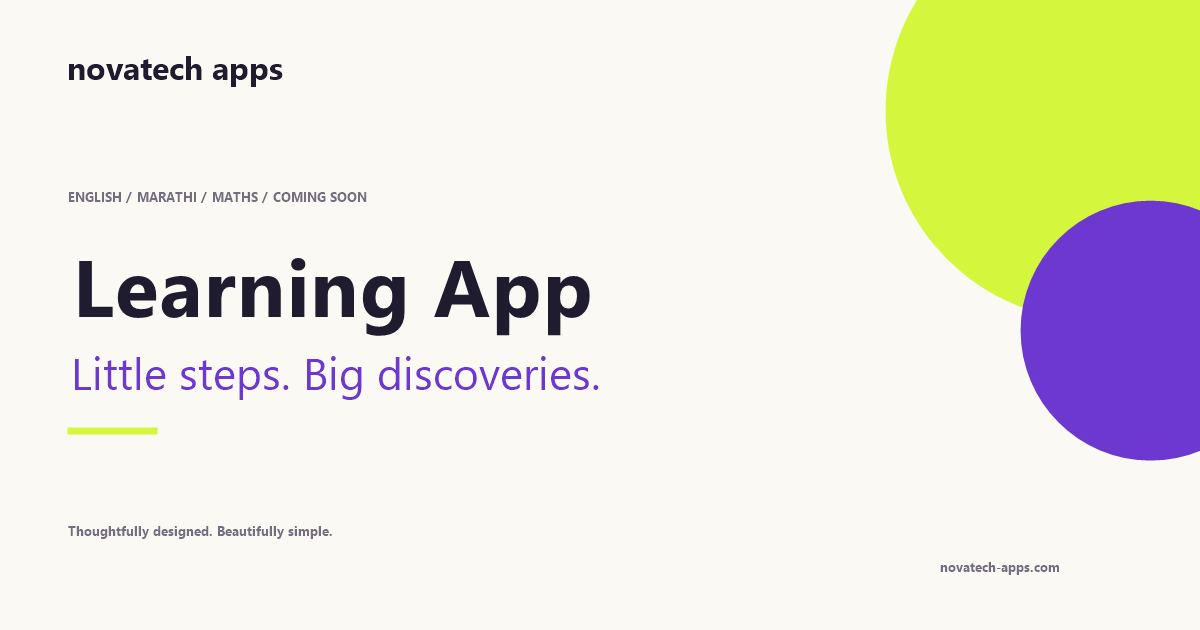
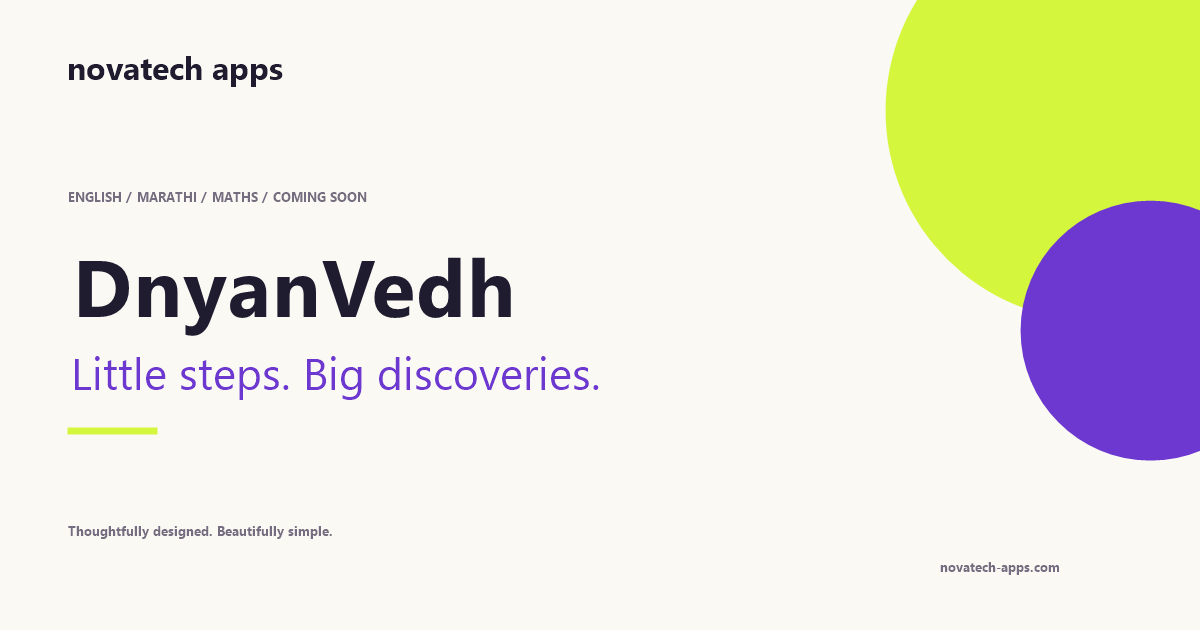
Apply supplied DnyanVedh policies and update learning app branding

Changed region(s): [[0.0617, 0.3921, 0.4933, 0.5429]]

diff --git a/README.md b/README.md
@@ -30,9 +30,9 @@ scripts/check.mjs     # Generated-site validation
 scripts/check-seo.mjs # Sitemap/canonical/indexing and contact email consistency
 scripts/check-aura.mjs # Aura controls, legal section coverage and legacy routes
 scripts/check-learning.mjs # Learning content, legal sections and clock calculations
-src/learning-page.mjs # Learning App landing page, original SVG teaching clocks
+src/learning-page.mjs # DnyanVedh landing page, original SVG teaching clocks
 src/learning-data.mjs # Educational features, topics and FAQs
-src/learning-legal.mjs # Rendering of the supplied Learning App policies
+src/learning-legal.mjs # Rendering of the supplied DnyanVedh policies
 scripts/social.ps1    # Windows-only social PNG regeneration (assets are committed)
 public/assets/        # CSS, JS, favicons and social cards
 public/.htaccess      # Apache configuration
@@ -54,11 +54,11 @@ Cinematic Pro replaces the Cinemora name and canonical route. Its general video-
 
 The owner requested general policy wording and supplied an Android manifest fragment, recorded in `src/content/cinematic-pro-permissions.txt`. The policy names the declared media, camera, microphone, notification, vibration, internet and foreground media-processing permissions, the API 32 cap for legacy storage, and optional camera hardware. This does not establish actual runtime data flows or dependency-added permissions. Google AdMob and Firebase processing remain expressly conditional on the service being included in the installed version. No particular SDK integration, account system, cloud processing feature or offline-only architecture has been verified. Match these general disclosures to the actual released build and Play Console Data safety entries before store submission; publication is not a compliance certification.
 
-## Learning App
+## DnyanVedh (Learning App)
 
-The education showcase at `/learning-app/` covers English and Marathi picture matching, fifteen English topics, 25-question tests, rupee counting, place value, clock learning/practice, local result history and PDF reporting. An Education filter, fourth app card, trust-center entry, app icon and social card are included. The landing page has an illustrative clock activity with plus/minus controls, English/Marathi time names, three target difficulties, answer checking and keyboard-accessible Play/Layouts/Setup tabs. It does not save learner results or export reports; the report illustration explains the Android app's supplied features.
+The education showcase is named **DnyanVedh** and retains `/learning-app/` so existing links continue to work. It covers English and Marathi picture matching, fifteen English topics, 25-question tests, rupee counting, place value, clock learning/practice, local result history and PDF reporting. An Education filter, fourth app card, trust-center entry, app icon and social card are included. The landing page has an illustrative clock activity with plus/minus controls, English/Marathi time names, three target difficulties, answer checking and keyboard-accessible Play/Layouts/Setup tabs. It does not save learner results or export reports; the report illustration explains the Android app's supplied features.
 
-The supplied documents are retained in `src/content/learning-privacy.md` and `src/content/learning-terms.md`. Published pages substitute the known NovaTech brand and support email, retain the substantive disclosures and mark unconfirmed effective date, legal identity, support-retention details, artwork rights and governing jurisdiction as pending. These pre-release legal pages use `noindex` and are excluded from the sitemap. The current Android app is described as offline with no accounts, ads, analytics or developer-operated server connection. Android backup/device transfer and user-chosen report exports are explicitly disclosed; saved/shared copies must be managed separately. Full Marathi app localisation and individual-result deletion are not implemented. No Google advertising or Firebase SDK disclosure is borrowed from another app.
+The owner’s replacement text is preserved verbatim in `src/content/dnyanvedh-supplied.txt`. Its privacy policy and terms are organised into readable sections in `src/content/learning-privacy.md` and `src/content/learning-terms.md`; all supplied paragraphs are retained. The known NovaTech Apps operator name and public support email replace placeholders, with an effective date of October 20, 2026. Both documents are published without draft notices or `noindex` and are included in the sitemap. The current Android app is described as offline with no accounts, ads, analytics or developer-operated server connection. Android backup/device transfer and user-chosen report exports are explicitly disclosed; saved/shared copies must be managed separately. Full Marathi app localisation and individual-result deletion are not implemented. No Google advertising or Firebase SDK disclosure is borrowed from another app.
 
 ## Aura Music Player
 
@@ -78,13 +78,13 @@ The existing GitHub Pages custom domain is `www.novatech-apps.com`; canonical me
 
 ## Before the apps launch
 
-All four apps are deliberately labeled **Coming soon**. There are no invented ratings, install counts, production versions, app backend health checks, or developer-verification badges. Browser online status reports only `navigator.onLine`. Browser demonstrations and reports are illustrative; Aura and Learning App feature descriptions follow the supplied app content. Google Play buttons explain the pre-launch state until configured.
+All four apps are deliberately labeled **Coming soon**. There are no invented ratings, install counts, production versions, app backend health checks, or developer-verification badges. Browser online status reports only `navigator.onLine`. Browser demonstrations and reports are illustrative; Aura and DnyanVedh feature descriptions follow the supplied app content. Google Play buttons explain the pre-launch state until configured.
 
 Update `src/data.mjs` with verified `playUrl`, `rating`, `version`, publisher ID, category, and actual features. Store links must point to the real Google Play listings; verified ratings should be maintained when displayed. The current developer panel explicitly states that Google Play verification is unconfirmed; update it only after verifying the business details and Console status. Add your responsible legal entity and address.
 
 The existing publisher ID `pub-5447768257052428` is retained in `/app-ads.txt` with the Google seller certification value `f08c47fec0942fa0`. Confirm it against your AdMob account before monetization. List the root developer website in your store listings and validate crawling in AdMob. Private preview URLs cannot serve as public Play policy or advertising-verification endpoints.
 
-Except for Cinematic Pro's published general privacy policy, app privacy policies and terms are **pre-launch drafts**, visibly labeled and marked `noindex`. Before submission, audit each released app’s permission manifest, SDK versions/configurations, collection and sharing behavior, audience, regional consent, account/deletion requirements, retention and providers. Replace conditional text with accurate disclosures, finalize the legal entity, address, applicable law and effective date, and remove remaining draft notices/noindex in `scripts/build.mjs` after approval. A website alone cannot establish legal compliance or Play Console verification. Website privacy text also identifies host logging and support retention details that the operator must confirm.
+Except for DnyanVedh’s supplied privacy policy and terms and Cinematic Pro’s published general privacy policy, app privacy policies and terms are **pre-launch drafts**, visibly labeled and marked `noindex`. Before submission, audit each released app’s permission manifest, SDK versions/configurations, collection and sharing behavior, audience, regional consent, account/deletion requirements, retention and providers. Replace conditional text with accurate disclosures, finalize required legal details, and remove remaining draft notices/noindex in `scripts/build.mjs` after approval. A website alone cannot establish legal compliance or Play Console verification. Website privacy text also identifies host logging and support retention details that the operator must confirm.
 
 References used to prepare the policy structure: [Google Play User Data](https://support.google.com/googleplay/android-developer/answer/10144311), [Data safety](https://support.google.com/googleplay/android-developer/answer/10787469), [AdMob data disclosures](https://developers.google.com/admob/android/privacy/play-data-disclosure), [Firebase privacy](https://firebase.google.com/support/privacy), and [app-ads.txt setup](https://support.google.com/admob/answer/9363762).
 

diff --git a/src/content/learning-privacy.md b/src/content/learning-privacy.md
@@ -1,48 +1,35 @@
-# Learning App Privacy Policy
+# DnyanVedh Privacy Policy
 
-Draft for owner review. Replace every [placeholder] before publication and use the same app/developer identity as your store listing. Effective date: [DD Month YYYY].
+**Effective date:** October 20, 2026
 
-Developer/operator: [Developer or business name]  
-Privacy and support contact: [Public support email]
+## About DnyanVedh
 
-## About this policy
+DnyanVedh, developed and operated by NovaTech Apps, provides English, Marathi, and mathematics learning activities for primary-school students. This Privacy Policy explains how information is handled when you use the app. Parents, guardians, and teachers should review this policy before allowing children to use DnyanVedh.
 
-Learning App provides English, Marathi, and maths learning activities for primary-school children, including picture matching, money practice, clock practice, and tests. This policy describes the current offline Android app. Parents, guardians, and teachers should review it before children use the app.
+## Information stored on your device
 
-## Information processed on your device
+DnyanVedh does not require registration or ask for a learner’s name, email address, phone number, school, date of birth, or account credentials. The app stores completed test results locally in its private Android storage. These records may include the subject, questions, answer options, selected answers, correct answers, scores, completion date, and time taken. This information supports progress review and detailed reports. Unfinished activity state may also be temporarily retained or restored by Android.
 
-The app stores completed test records in its private Android app storage. A record can contain the subject, lesson, completion date and time, time taken, score, question content or image references, answer options, and chosen and correct answers. These records help users review progress and generate detailed reports. Practice activities and unfinished test state may also be retained temporarily or restored by Android.
+## Collection, transmission and permissions
 
-The app does not ask for a child's name, email, telephone number, school, date of birth, password, or account registration. Results are not assigned to named learner profiles. A test history can still reveal learning activity, particularly if someone links it to a child outside the app.
-
-## Collection and transmission
-
-The current app has no developer-operated server connection, advertising, third-party analytics, or automatic crash-reporting service. We do not receive or sell the test history stored on your device. The app does not request access to your camera, microphone, contacts, messages, or location.
-
-Android, your app store, or your device provider may independently process installation, diagnostic, or device information under their own settings and policies. This policy does not describe those providers' separate services.
+The current version does not send test results to developer-operated servers and does not include advertisements, third-party analytics, or automatic crash-reporting services. We do not receive or sell the test history stored on your device. The app does not request access to your camera, microphone, contacts, messages, or location. Android, your device manufacturer, and your app store may independently process information under their own policies.
 
 ## Android backup and device transfer
 
-The app permits Android to back up and transfer saved test-result preferences. Depending on your Android settings and provider, these records may be copied to a device backup or another device. This is an operating-system feature, not an app-managed cloud account. Temporary PDF reports are not included in the app's configured result-backup scope. Consult your device's backup controls to manage backup, restoration, and deletion of backup copies.
+Depending on your device settings, Android may back up saved test results or transfer them to another device. This is an operating-system feature, not a DnyanVedh cloud account. Temporary reports are excluded from the app’s configured result-backup scope. You can manage backup and restoration through your device or backup provider’s settings.
 
 ## PDF reports and sharing
 
-When requested, the app creates a PDF in temporary app storage and opens it in the app. Reports contain question illustrations, options, chosen/correct answers, score, date/time, and duration. You may choose to save a separate copy through Android's file picker or share it with an app or recipient you select. The destination may be a cloud storage service. Those providers and recipients control their copies under their own policies.
+When requested, DnyanVedh generates a PDF report and opens it within the app. Reports may contain question illustrations, answers, scores, dates, and test duration. You may choose to save or share a report using Android’s file picker or another application. Once exported, those copies are controlled by the selected service or recipient. Parents and teachers should supervise sharing and avoid publicly disclosing children’s results or identifying information.
 
-Parents or teachers should supervise report exports. Do not add identifying information to a report or share children's results publicly without appropriate permission.
+## Retention and deletion
 
-## Retention, access, and deletion
+Saved results remain on the device until app storage is cleared, the app is uninstalled, or another device or backup process changes them. To remove local results, use Android Settings > Apps > DnyanVedh > Storage > Clear storage; wording may vary by device. This resets the app. Exported reports and backup copies must be managed separately, and backed-up results may return after restoration. We cannot remotely access or delete device-only records or recipients’ copies.
 
-Saved results remain until the app's storage is cleared, the app is removed, or another device/backup process changes them. View results in My Test Results and Reports. To delete all locally stored history, use Android Settings > Apps > Learning App > Storage > Clear storage (wording varies). This also resets the app. There is currently no individual-result deletion control.
+## Supervised use, security and support
 
-Exported PDFs must be deleted separately from the file locations, recipient apps, and cloud services where you saved or shared them. Clearing app data does not delete those copies, and Android may restore backed-up records later. We cannot remotely access or delete device-only records or copies held by recipients.
-
-## Children's use and security
-
-Learning App supports supervised learning without requiring a child account. We do not use behavioural advertising or track children across apps. Private app storage and Android's access controls help protect saved records, but anyone with access to an unlocked/shared device may be able to view them. We do not promise absolute security or special app-level encryption of results.
-
-If you contact [Public support email], we receive the information you choose to send, such as your email address and issue description, through the selected email provider. Please avoid sending children's identifying details. Support correspondence is used to answer your request and retained only as reasonably needed for support and applicable obligations; the operator must confirm its actual support-retention process before publishing this policy.
+DnyanVedh is intended for supervised educational use. Android’s private app storage and device access controls help protect results, but anyone with access to an unlocked device may be able to view them. No storage system can guarantee complete security. If you contact developer.novatechapps@gmail.com, we receive the information you voluntarily provide and use it to address your request. Please avoid sending children’s identifying information. Support correspondence will be retained only as reasonably necessary for support and applicable legal obligations.
 
 ## Changes and contact
 
-If data practices change, we will update this policy and its effective date and provide additional notice where required. Contact [Public support email] with privacy questions. Before adding accounts, online sync, advertisements, analytics, payments, or new permissions, the operator must reassess disclosures and any applicable consent requirements.
+We may update this policy when the app or its information-handling practices change. The revised policy will display an updated effective date, with additional notice where required. For privacy questions, contact NovaTech Apps at developer.novatechapps@gmail.com.

diff --git a/src/content/learning-terms.md b/src/content/learning-terms.md
@@ -1,48 +1,35 @@
-# Learning App Terms and Conditions
+# DnyanVedh Terms and Conditions
 
-Draft for owner/legal review. Replace [placeholders] before publication. Effective date: [DD Month YYYY].
+**Effective date:** October 20, 2026
 
-Operator: [Developer or business name]  
-Contact: [Public support email]
+## Purpose and supervised use
 
-## Purpose and users
-
-Learning App offers English, Marathi, and maths activities for primary-school practice. These terms explain permitted use and the practical limits of the service. Parents, guardians, and educators should review the terms and supervise children's use, especially saving or sharing reports. An adult accepting these terms on a child's behalf must have appropriate authority to do so. These terms do not rely on a child independently entering a binding contract.
+DnyanVedh is an educational application operated by NovaTech Apps. These Terms and Conditions govern its use. Parents, guardians, and educators should review these terms and supervise children’s use, particularly when accessing or sharing results. A child’s use alone is not treated as independent acceptance of a binding agreement.
 
 ## Educational use
 
-The app supplements teaching and practice. Its scores show performance on the questions presented; they are not formal examinations, diagnostic assessments, school qualifications, or a guarantee of learning outcomes. Teachers and parents should check that examples and difficulty suit the learner. Clock examples use a twelve-hour teaching clock unless explicitly stated otherwise. Money images are educational illustrations and do not represent a payment service or real funds.
+DnyanVedh provides supplementary English, Marathi, and mathematics practice through pictures, interactive activities, games, and tests. It does not replace classroom instruction, professional educational assessment, or parental guidance. Scores reflect performance on the questions presented and are not official qualifications, diagnostic assessments, or guarantees of academic improvement. Money illustrations and activities are educational only and do not involve actual payments or funds.
 
-## Permission to use
+## Permitted use
 
-Subject to applicable law, the operator grants permission to install and use the app for personal, family, and classroom learning. You may save and privately share learner reports for educational purposes with appropriate authority. This permission does not grant ownership of the app, its source code, or third-party artwork and materials.
-
-Use the app lawfully. Do not misrepresent modified reports as authentic results, misuse another learner's information, or redistribute app materials commercially without the necessary permission. Nothing in these terms restricts rights that applicable law gives you, including permitted accessibility use or statutory exceptions.
+You may use the app for personal, family, and classroom learning. You may save and privately share reports for legitimate educational purposes when authorised to do so. You must not misuse another learner’s information, knowingly present altered reports as authentic results, or commercially redistribute protected app content without the necessary permission. Nothing in these terms restricts rights granted by applicable law.
 
 ## Content and ownership
 
-The operator and relevant licensors retain rights in their respective software, text, illustrations, and other materials. Third-party rights remain with their owners. Currency images, educational references, and names do not imply endorsement by a government, school, publisher, or other organisation. The operator must confirm permission for all supplied artwork before public distribution.
+Rights in the app’s software, text, illustrations, and other materials remain with their respective owners and licensors. Using the app does not transfer ownership of those materials. References to currency, schools, educational concepts, or other organisations do not imply their endorsement of DnyanVedh.
 
 ## Results and privacy
 
-The Privacy Policy describes local results, Android backup, exports, and sharing. On a shared device, the adult responsible for the device should manage access to results. Reports should be shared only with people authorised to receive them.
+Test results are stored locally as described in the Privacy Policy. They may be lost following storage clearance, uninstallation, device failure, backup changes, or incompatible installations. Keep an exported copy of reports you need to retain. You are responsible for controlling access on shared devices and sharing learner information only with authorised recipients.
 
-Results depend on the stored answers and may be lost if storage is cleared, the app is removed, a device fails, or an incompatible installation changes storage. Keep an exported copy of any report you need. Exported files and third-party recipients' copies are managed outside the app.
+## Offline use and external services
 
-## Availability, updates, and external services
+Core learning activities operate offline after installation. Android backup, report sharing, and selected storage or messaging services may depend on third-party services or connectivity. Those services have their own terms and privacy policies. The current version does not include in-app purchases, subscriptions, or payment collection; any future paid features will require separate pricing and purchase disclosures.
 
-Core activities work offline after installation. Android file pickers, backup, sharing, and chosen storage or messaging services may depend on separate providers or connectivity. Their terms apply to their services.
+## Errors, availability and responsibility
 
-The operator may improve or change the app. Device compatibility and uninterrupted availability are not guaranteed. These terms describe the current version and do not promise future features. No in-app purchases, paid subscriptions, or payment collection are currently implemented. Any future paid offering requires separate, clear pricing and purchase terms.
+We aim to provide useful educational content, but errors in wording, illustrations, answers, calculations, or software may occur. Please report concerns to developer.novatechapps@gmail.com, identifying the activity or question without unnecessarily including a child’s personal information. Features and compatibility may change through updates, and uninterrupted availability or particular learning outcomes cannot be guaranteed. Any limitation of liability applies only to the extent permitted by law and does not remove mandatory consumer rights or other protections that cannot lawfully be excluded.
 
-## Errors and limitations
+## Ending use, changes and contact
 
-Reasonable care should be taken to provide useful, accurate educational content. Mistakes in wording, illustrations, time labels, answers, or software may still occur. Report an issue to [Public support email], identifying the lesson and question if possible without including a child's identifying details.
-
-To the extent permitted by applicable law, the app is provided as available and the operator does not guarantee uninterrupted operation or a particular educational result. Liability is limited only to the extent legally permitted. Nothing excludes liability, consumer protections, or remedies that cannot lawfully be excluded. No automatic blanket waiver of children's or consumers' rights is intended.
-
-## Ending use, changes, and disputes
-
-You may stop using or uninstall the app at any time. Manage saved/exported records as described in the Privacy Policy. Material changes to these terms should be communicated with an updated effective date and any additional steps required by applicable law.
-
-Contact [Public support email] first for support or a concern. These terms remain subject to mandatory laws and applicable consumer rights. [Operator's jurisdiction and dispute details, to be completed after legal review.] If a provision is unenforceable, the remaining provisions continue to the extent permitted by law.
+You may stop using or uninstall DnyanVedh at any time. Material changes to these terms will be communicated through an updated effective date and any additional notice required by applicable law. These terms remain subject to applicable laws and mandatory consumer protections. For support, complaints, or questions, contact NovaTech Apps at developer.novatechapps@gmail.com.
